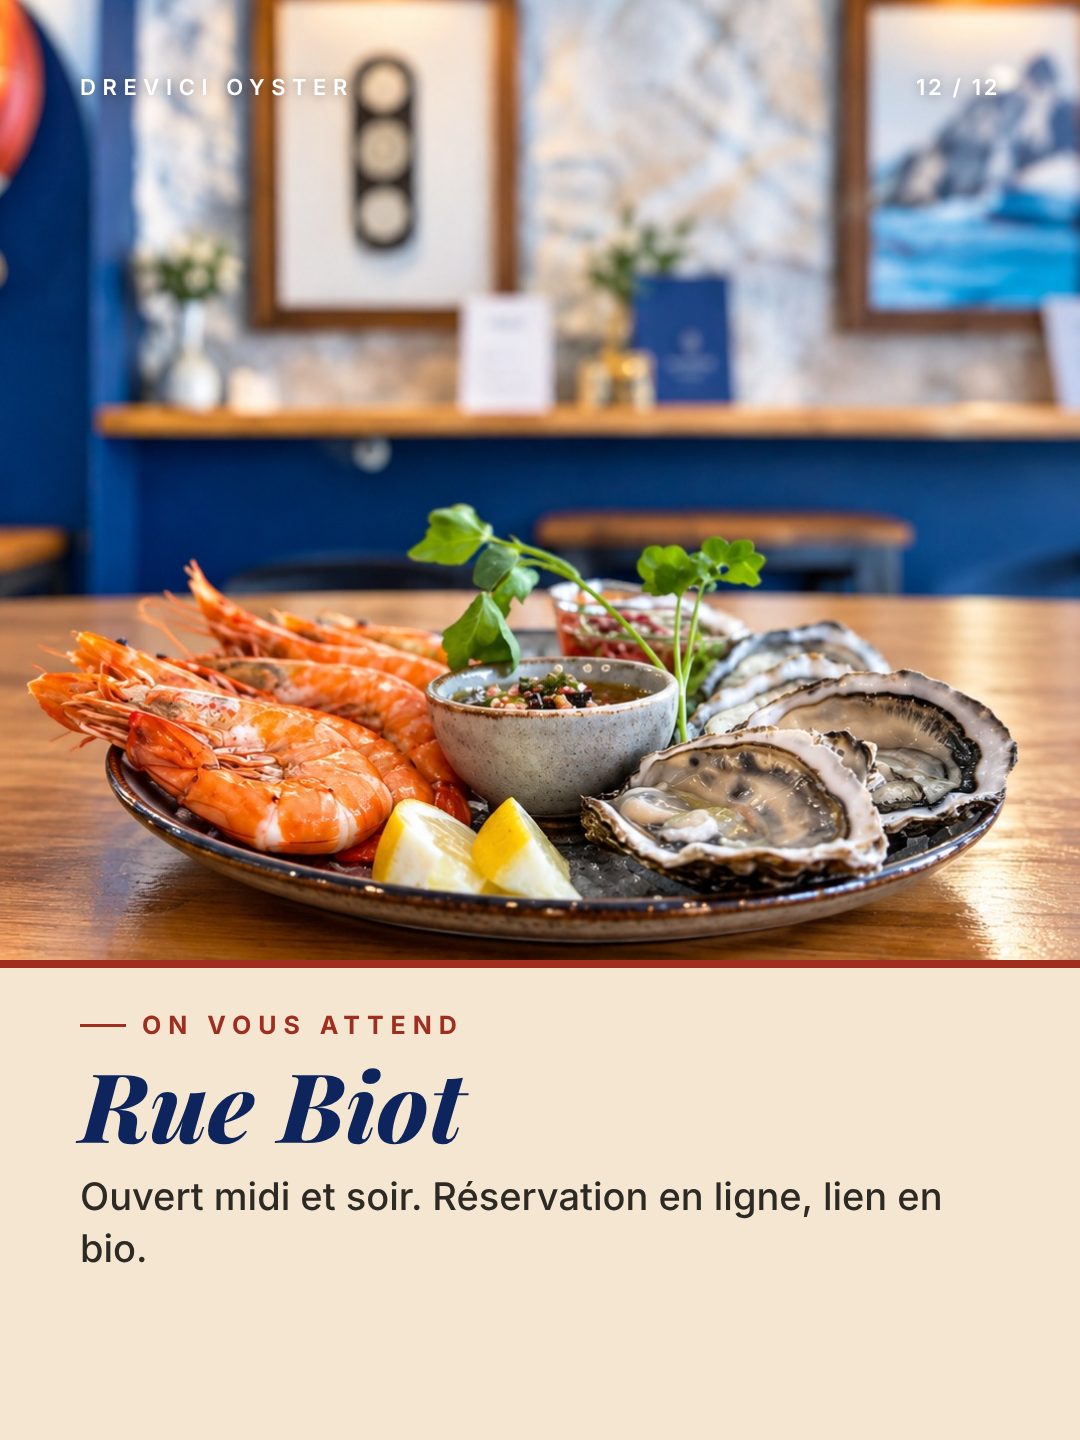
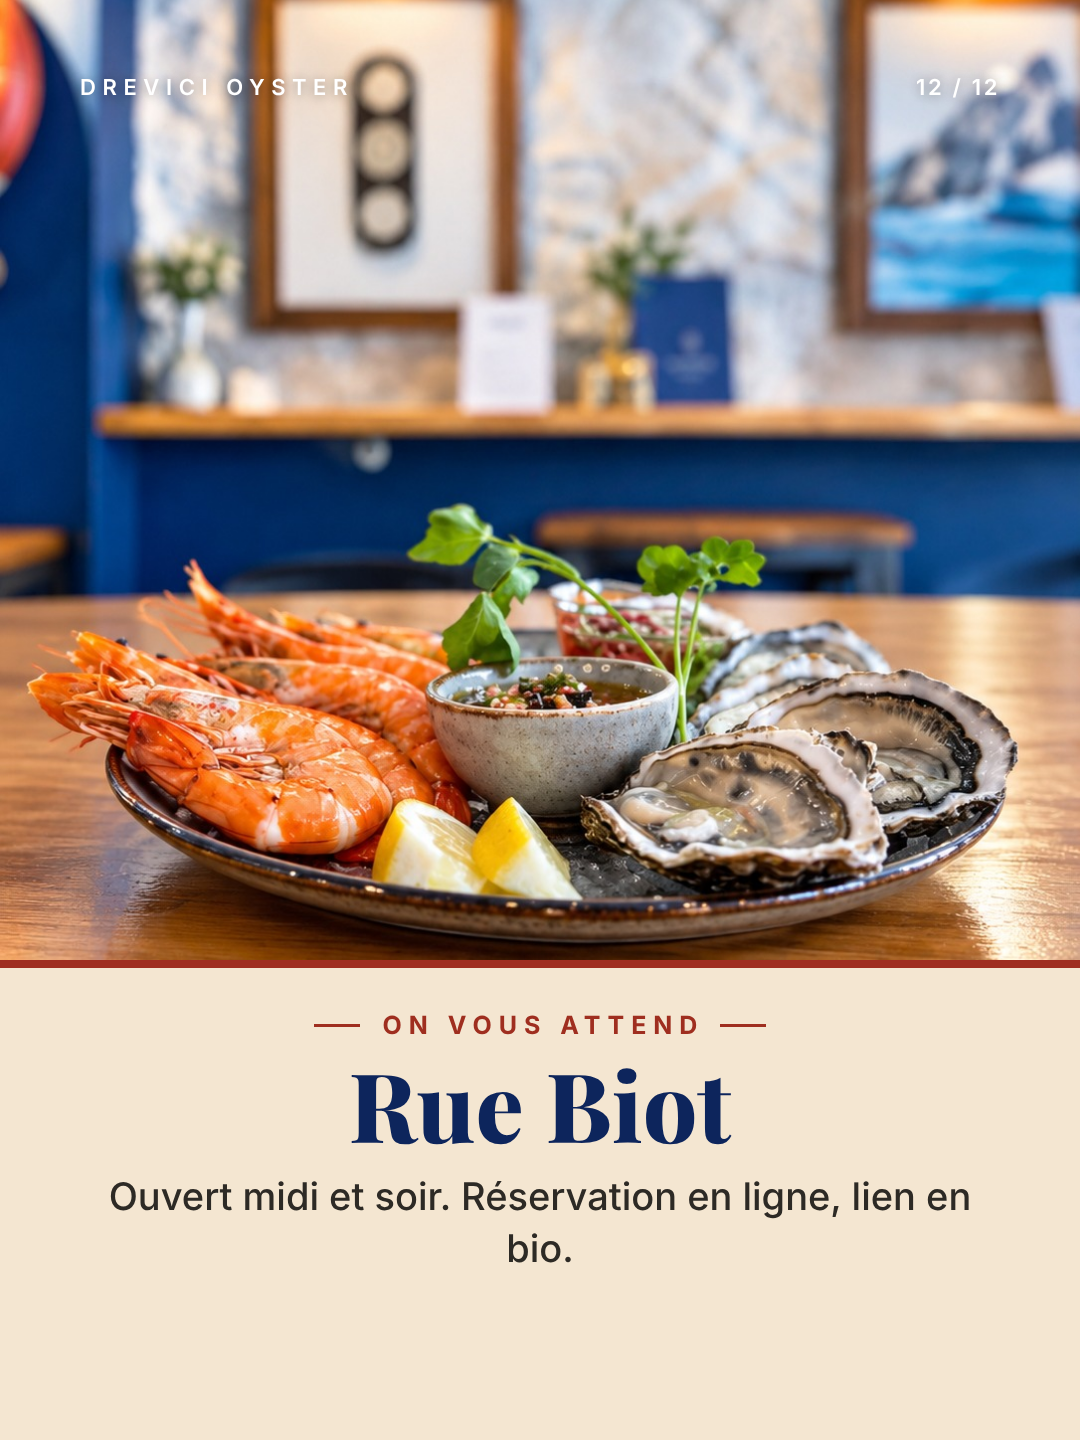
Carrousel B2 : texte centré, titres droits, traits rouges
Claude-Session: https://claude.ai/code/session_012ueJSkHMqbZpvX7x5D3Dw2

diff --git a/tools/carrousel/slides.html b/tools/carrousel/slides.html
@@ -53,10 +53,10 @@ function plein(th){
     el.style.background=CREAM;
     el.innerHTML=`<div class="ab img" style="left:0;right:0;top:0;height:${cover?930:960}px;${bg(s.img,s.pos)}"></div>${top}
     <div class="ab" style="left:0;right:0;top:${cover?930:960}px;height:8px;background:${RED}"></div>
-    <div class="ab" style="left:80px;right:80px;top:${cover?990:1010}px">
-      <div style="display:flex;align-items:center;gap:16px;font:700 25px Inter;letter-spacing:.28em;text-transform:uppercase;color:${RED}">${rule(RED,46)}${s.k}</div>
-      <div class="fit" data-max="${cover?124:96}" style="font:italic 800 96px/1.04 'Playfair Display',serif;color:${INK};margin-top:14px">${s.t}</div>
-      <div style="font:500 38px/1.38 Inter;color:#2d2a25;margin-top:16px">${s.x}</div></div>`;
+    <div class="ab" style="left:80px;right:80px;top:${cover?990:1010}px;text-align:center">
+      <div style="display:flex;align-items:center;justify-content:center;gap:16px;font:700 25px Inter;letter-spacing:.28em;text-transform:uppercase;color:${RED}">${rule(RED,46)}<span style="padding-left:.28em">${s.k}</span>${rule(RED,46)}</div>
+      <div class="fit" data-max="${cover?124:96}" style="font:800 96px/1.04 'Playfair Display',serif;color:${INK};margin-top:14px">${s.t}</div>
+      <div style="font:500 38px/1.38 Inter;color:#2d2a25;margin:16px auto 0;max-width:880px">${s.x}</div></div>`;
     return; }
   const ruban=th==='ruban';
   el.innerHTML=`<div class="ab img" style="inset:0;${bg(s.img,s.pos)}"></div>
